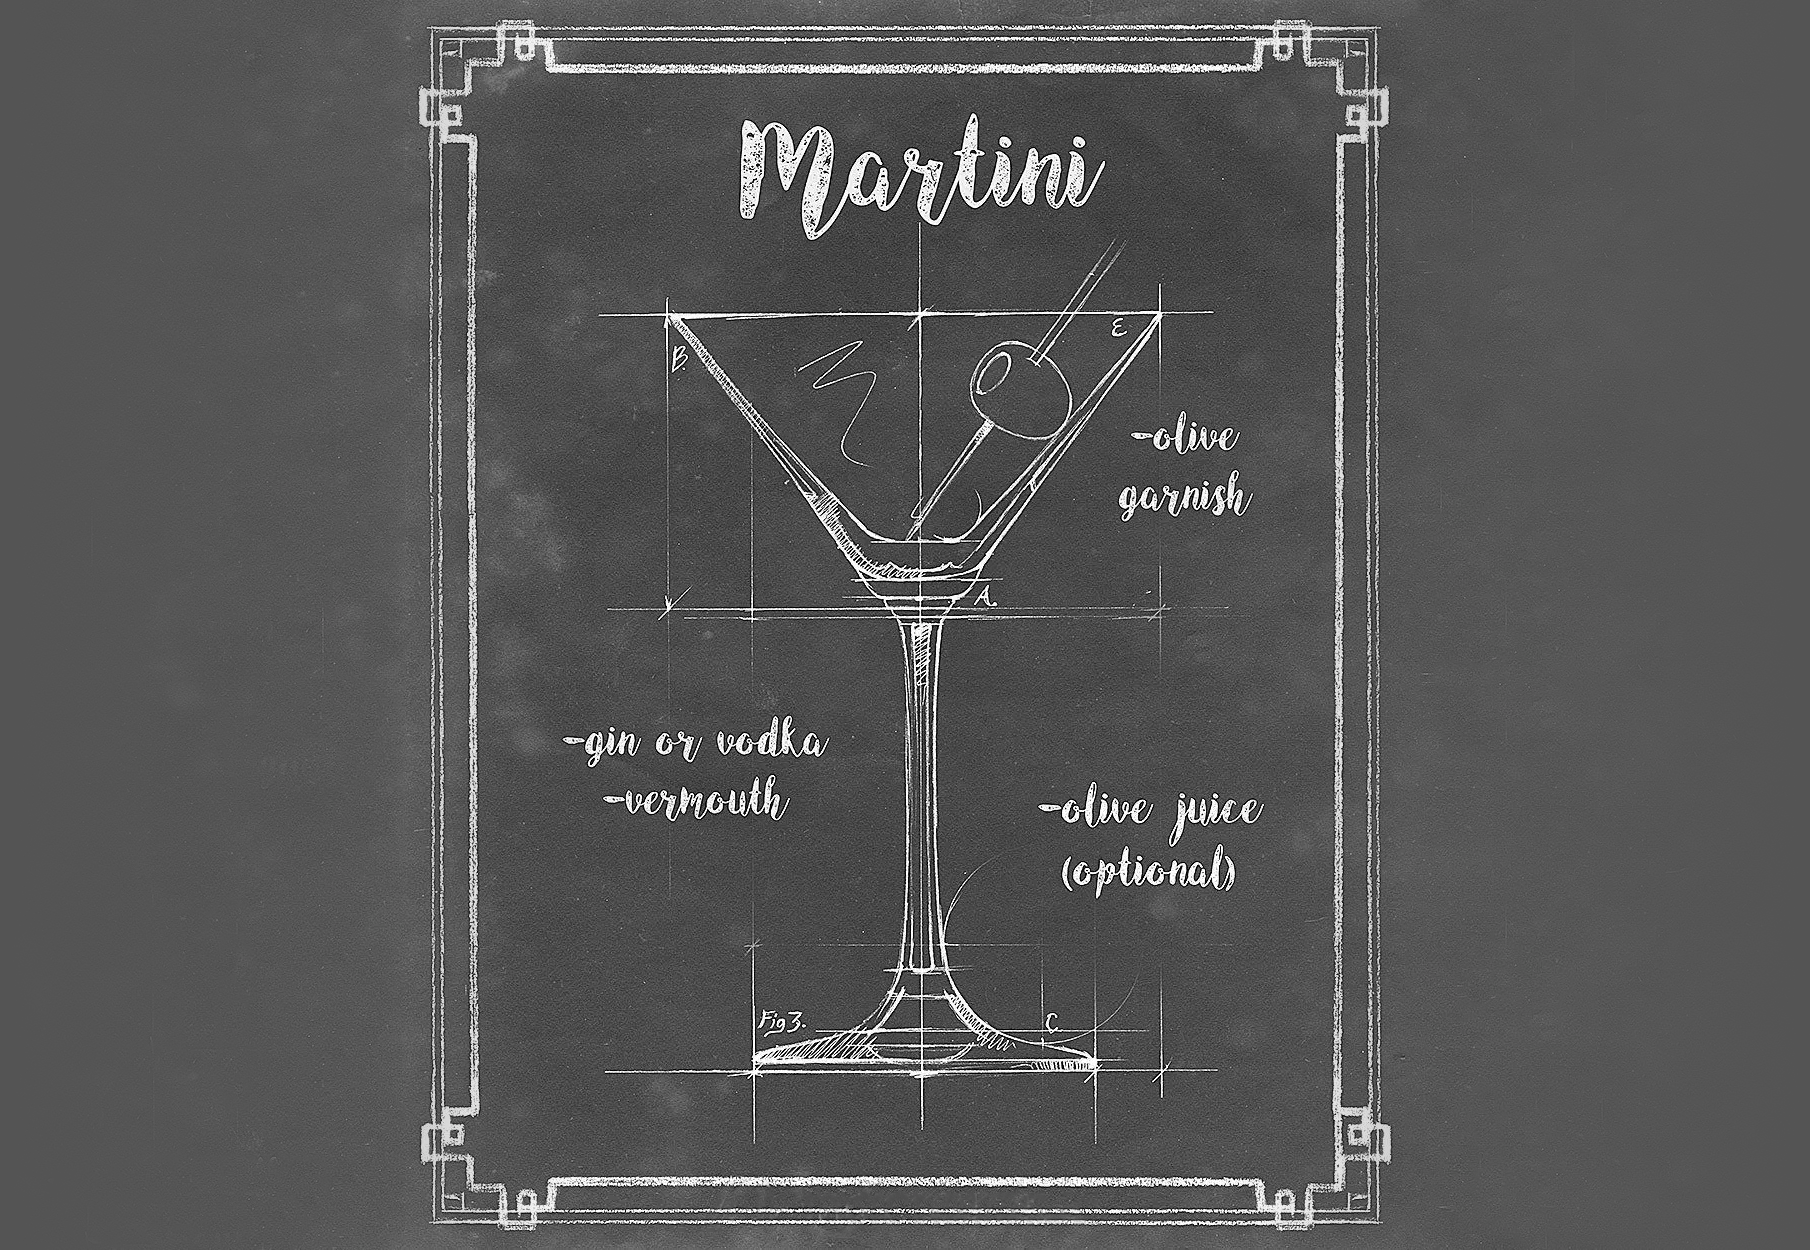
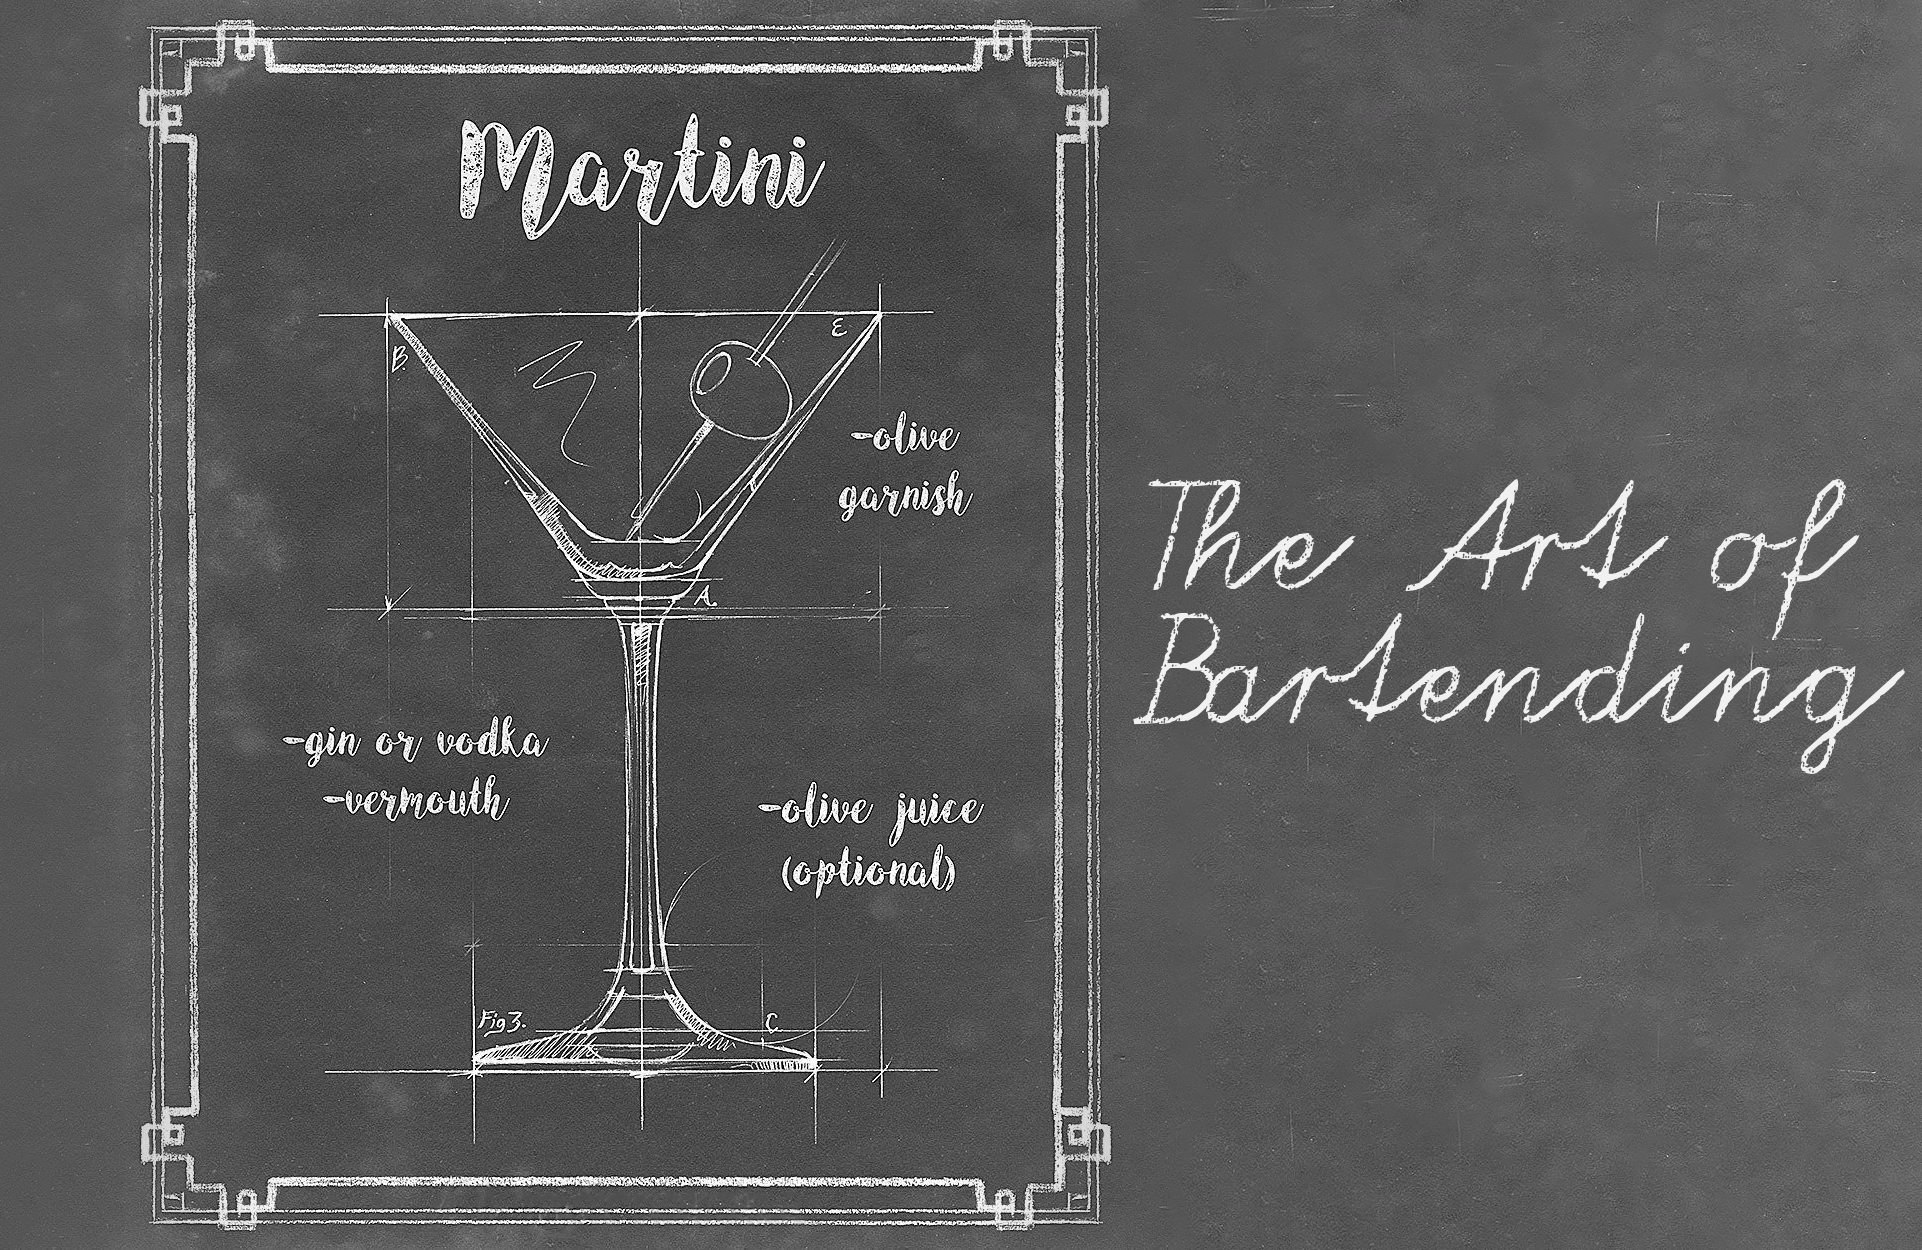
AAAAAAAAAAAA

diff --git a/index.html b/index.html
@@ -8,64 +8,90 @@
     * {
       box-sizing: border-box;
     }
-    
-    body {
+
+    body,
+    html {
       margin: 0;
       padding: 0;
     }
 
-    .left {
-      background-color: #2196F3;
-      padding: 20px;
+    .header {
+      border: 1px solid red;
+      padding: 15px;
+    }
+
+    .row::after {
+      content: "";
+      clear: both;
+      display: table;
+    }
+
+    [class*="col-"] {
       float: left;
-      width: 20%;
-      /* The width is 20%, by default */
+      padding: 15px;
+      border: 1px solid red;
     }
 
-    .main {
-      padding: 0px;
-      margin: 0;
-      float: left;
-      width: 60%;
-      /* The width is 60%, by default */
+    .col-1 {
+      width: 8.33%;
     }
 
-    .right {
-      background-color: #545454;
-      padding: 20px;
-      float: left;
-      width: 40%;
-      text-align: right;
-      height: 50vh;
-      /* The width is 20%, by default */
+    .col-2 {
+      width: 16.66%;
     }
 
-    /* Use a media query to add a break point at 800px: */
-    @media (max-width: 800px) {
-
-      .left,
-      .main,
-      .right {
-        width: 100%;
-        /* The width is 100%, when the viewport is 800px or smaller */
-      }
-
-      .right {
-        margin-top: 5px;
-        height: 50px;
-      }
+    .col-3 {
+      width: 25%;
     }
-    
+
+    .col-4 {
+      width: 33.33%;
+    }
+
+    .col-5 {
+      width: 41.66%;
+    }
+
+    .col-6 {
+      width: 50%;
+    }
+
+    .col-7 {
+      width: 58.33%;
+    }
+
+    .col-8 {
+      width: 66.66%;
+    }
+
+    .col-9 {
+      width: 75%;
+    }
+
+    .col-10 {
+      width: 83.33%;
+    }
+
+    .col-11 {
+      width: 91.66%;
+    }
+
+    .col-12 {
+      width: 100%;
+      padding: 0;
+      border: none;
+    }
+
+    img {
+      display: block;
+      object-fit: scale-down;
+      width: 100%;
+    }
   </style>
 </head>
 
 <body>
-  <div class="main">
-    <img src="C:\Users\L4wbr1ng3r\github\D-Mardakis.github.io\Everything else\Pictures\General use pictures\banner-2.png" style="width: 100%;">
-  </div>
-  <div class="right">
-    <p>Right Content</p>
-  </div>
+  <div class="col-12"><img src="Everything else/Pictures/General use pictures/banner-2.png"> </div>
 </body>
 
 </html>

diff --git a/Everything else/Testing HTML pages/index (backup).html b/Everything else/Testing HTML pages/index (backup).html
@@ -1,38 +1,48 @@
 <html>
 
 <head>
+  <meta name="viewport" content="width=device-width, initial-scale=1.0">
   <title>The Art of Bartending</title>
   <link rel="icon" type="image/x-icon" href="Everything else/Pictures/General use pictures/favicon.png">
   <style>
     * {
+      box-sizing: border-box;
+    }
+
+    body,
+    html {
       margin: 0;
-      padding: 0;
+      padding: 0
     }
 
-    .imgbox {
-      display: grid;
-      height: 100%;
+    .content {
+      display: flex;
     }
 
-    .center-fit {
-      display: block;
-      max-width: 100%;
-      max-height: 100vh;
-      margin: auto;
+    .text {
+      background: #545454;
+      color: white;
+      flex: 1;
+    }
+
+    .image {
+      flex: 2;
+    }
+
+    img {
+      width: 100%;
+      vertical-align: top;
     }
   </style>
 </head>
 
 <body>
-  <img class="center-fit" src="Everything else\Pictures\General use pictures\banner-1-edit.png">
-<br>
-<table style="border: black 2px solid; margin-left: auto; margin-right: auto;" width="80%">
-  <tr height="100px">
-    <td style="border: black 2px solid;"></td>
-    <td style="border: black 2px solid;"></td>
-    <td style="border: black 2px solid;"></td>
-    <td style="border: black 2px solid;"></td>
-  </tr>
-</table>
+  <div class="content">
+    <div class="image">
+      <img src="C:\Users\L4wbr1ng3r\github\D-Mardakis.github.io\Everything else\Pictures\General use pictures\banner-2.png">
+    </div>
+    <div class="text">Lorem ipsum dolor sit amet, consectetur adipisicing elit. Nihil, id.</div>
+  </div>
 </body>
+
 </html>
